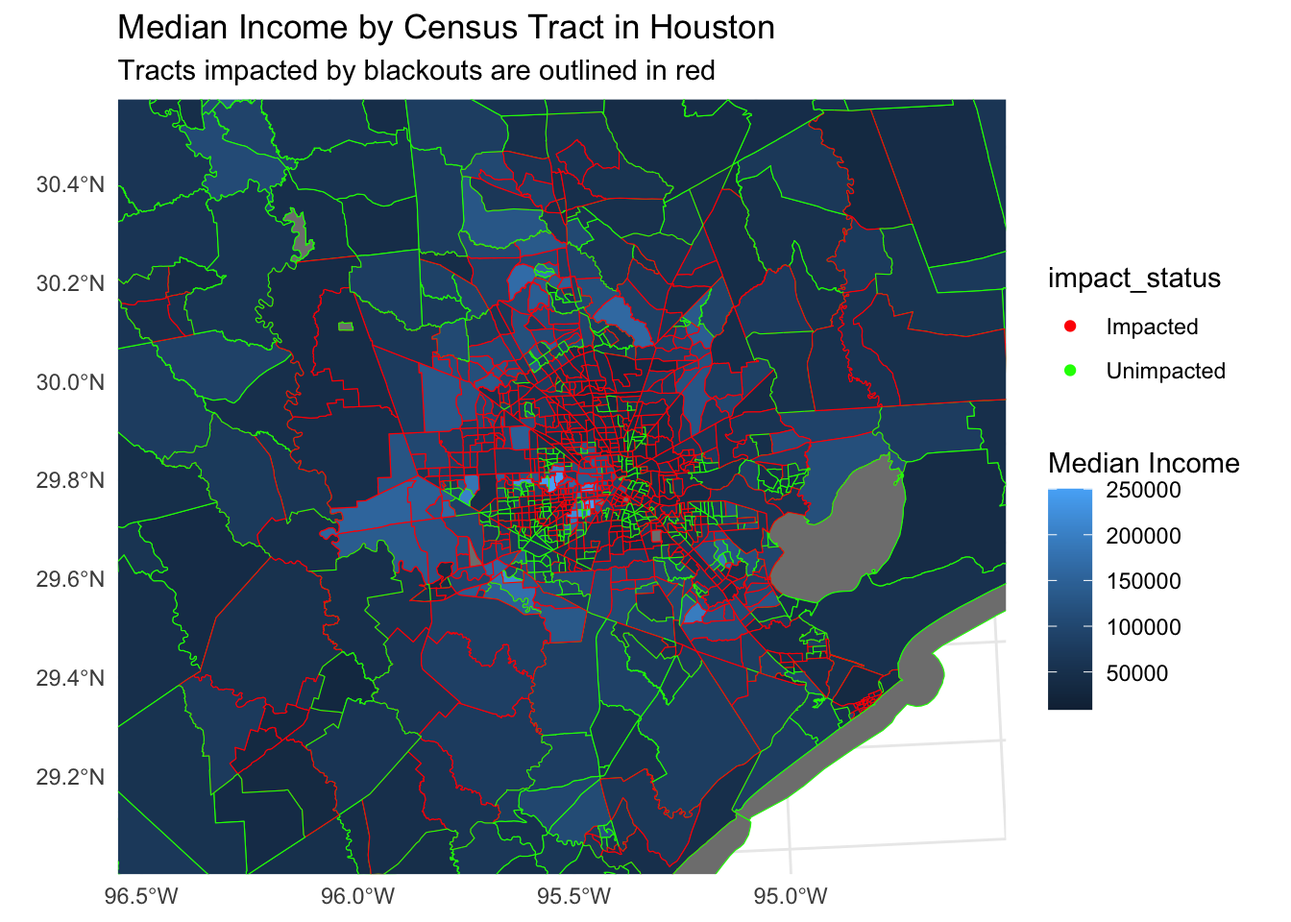
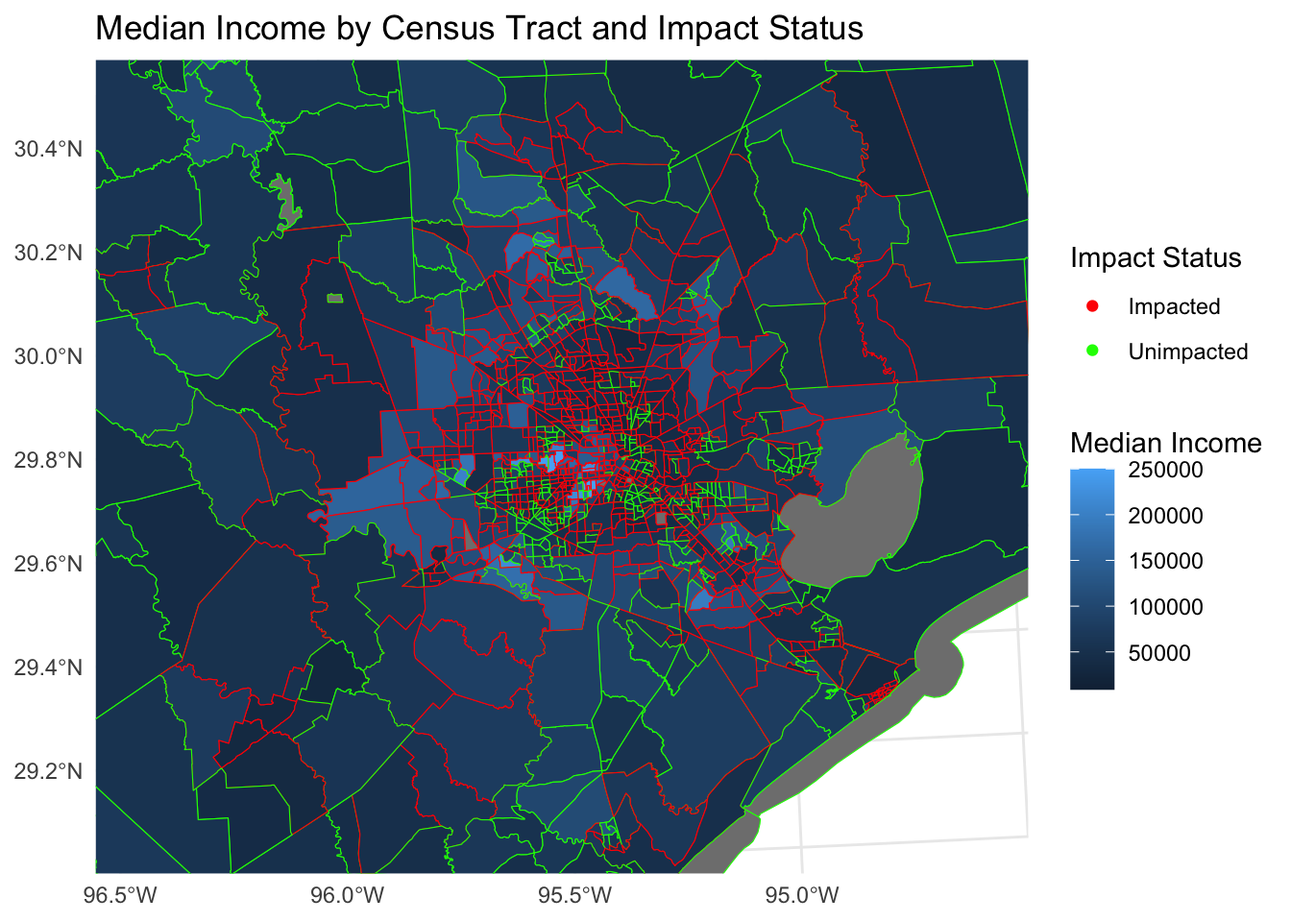
Built site for gh-pages

Changed region(s): [[0.0, 0.0, 0.9688, 1.0], [0.125, 0.6562, 0.1875, 0.7812]]

diff --git a/blog/2023-12-2-geo-proj/index.html b/blog/2023-12-2-geo-proj/index.html
@@ -7,7 +7,6 @@
 <meta name="viewport" content="width=device-width, initial-scale=1.0, user-scalable=yes">
 
 <meta name="dcterms.date" content="2023-12-15">
-<meta name="description" content="EDS223 Final Project">
 
 <title>A Geospatial Analysis of Houston’s Blackout Sensitivity</title>
 <style>
@@ -163,12 +162,7 @@ div.csl-indent {
   <div class="quarto-title-banner page-columns page-full">
     <div class="quarto-title column-page-left">
       <h1 class="title">A Geospatial Analysis of Houston’s Blackout Sensitivity</h1>
-                  <div>
-        <div class="description">
-          EDS223 Final Project
-        </div>
-      </div>
-                          <div class="quarto-categories">
+                                <div class="quarto-categories">
                 <div class="quarto-category">R</div>
                 <div class="quarto-category">MEDS</div>
                 <div class="quarto-category">Maps</div>
@@ -223,11 +217,12 @@ div.csl-indent {
 </section>
 <section id="background" class="level2">
 <h2 class="anchored" data-anchor-id="background">Background</h2>
-<p>Urban blackouts are more than mere inconveniences; they’re a stark reminder of our dependence on stable power sources. In Houston, a city with a complex infrastructure and a propensity for extreme weather events, the susceptibility to blackouts raises critical concerns about preparedness and resilience. A study by the U.S. Energy Information Administration highlights Houston’s energy landscape, noting its significant role in national energy supply but also its vulnerability to disruptions. This backdrop sets the stage for our analysis of the 2021 blackout, a pivotal moment that not only challenged the city’s infrastructure but also tested the resilience of its communities.</p>
+<p>The February 2021 blackout in Houston transcends being a singular, isolated power outage, instead unfolding as a critical incident that checked the robustness of urban infrastructures against extreme weather conditions. This event provides a unique opportunity to analyze the resilience of a major metropolitan area’s energy grid and its capacity to withstand unforeseen natural disasters. This particular incident in Houston, a city known for its dynamic growth and complex urban layout, becomes a focal point for examining urban resilience in the face of environmental challenges. The blackout serves as a view into understanding the repercussions of such events on a city’s operational continuity and the well-being of its residents. Houston is a good example for examining the intersection of urban infrastructure with environmental circumstances, offering insights into the areas where improvements are needed to enhance city-wide resilience. The significance of this analysis lies in its potential to influence future urban planning and emergency response strategies. By investigating the impacts of the Houston blackout, valuable lessons can be learned about the importance of designing cities that are not only efficient under normal conditions but also resilient and adaptable in the face of climate challenges. This blackout demonstrates the necessity of anticipating and preparing for extreme scenarios, ensuring that cities are not just places of progress and development, but also places of safety and stability for all civilians.</p>
 </section>
 <section id="data-and-methodology" class="level2">
 <h2 class="anchored" data-anchor-id="data-and-methodology">Data and Methodology</h2>
-<p>The analysis hinges on three key data sources: night light data <span class="citation" data-cites="nasa">(<a href="#ref-nasa" role="doc-biblioref">NASA 2023</a>)</span>, OpenStreetMap data detailing roads and buildings <span class="citation" data-cites="osm">(<a href="#ref-osm" role="doc-biblioref">OpenStreetMaps 2023</a>)</span>, and American Community Survey (ACS) socio-economic data. We employed R, utilizing libraries such as <code>stars</code>, <code>sf</code>, and <code>terra</code>, to manipulate and analyze these datasets. Our methodology involved a step-by-step approach, beginning with the aggregation of night light intensity data to assess blackout areas. We then integrated this with road and building data to estimate the number of homes affected and concluded with an examination of socio-economic factors, offering insights into the recovery dynamics of different communities.</p>
+<p>The analysis hinges on three key data sources: night light data <span class="citation" data-cites="nasa">(<a href="#ref-nasa" role="doc-biblioref">NASA 2023</a>)</span>, OpenStreetMap data detailing roads and buildings <span class="citation" data-cites="osm">(<a href="#ref-osm" role="doc-biblioref">OpenStreetMaps 2023</a>)</span>, and American Community Survey (ACS) socio-economic data. OpenStreetMap and the Landsat data from NASA are regularly-updated databases that are available to the public. I employed R, utilizing libraries such as <code>stars</code>, <code>sf</code>, and <code>terra</code>, to manipulate and analyze these datasets. The methodology involved a step-by-step approach, beginning with the aggregation of night light intensity data to assess blackout areas. I then integrated this with road and building data to estimate the number of homes affected and concluded with an examination of socio-economic factors, offering insights into the recovery dynamics of different communities.</p>
+<p><strong>Research Question</strong>: How did economic status influence the susceptibility and resilience of communities in Houston in the 2021 winter blackouts?</p>
 <p>Let’s get to coding.</p>
 <p>Starting off by loading in the necessary libraries.</p>
 <div class="cell">
@@ -246,7 +241,7 @@ div.csl-indent {
 <span id="cb1-13"><a href="#cb1-13" aria-hidden="true" tabindex="-1"></a><span class="co"># clear environment for sanity</span></span>
 <span id="cb1-14"><a href="#cb1-14" aria-hidden="true" tabindex="-1"></a><span class="fu">rm</span>(<span class="at">list =</span> <span class="fu">ls</span>())</span></code><button title="Copy to Clipboard" class="code-copy-button"><i class="bi"></i></button></pre></div>
 </div>
-<p>Next, importing data. The first set of data is the night light data, tiles or images that capture the light intensity emanating from the surface of the planet during nighttime. The data is stored as rasters, and the <code>stars</code> package is used for raster handling.</p>
+<p>Next, importing data. The first set of data is the night light data, made up of tiles, or images, that capture the light intensity emanating from the surface of the planet during nighttime. The data is stored as rasters, and the <code>stars</code> package is used for raster handling.</p>
 <div class="cell">
 <div class="sourceCode cell-code" id="cb2"><pre class="sourceCode r code-with-copy"><code class="sourceCode r"><span id="cb2-1"><a href="#cb2-1" aria-hidden="true" tabindex="-1"></a><span class="co"># read in night lights tiles</span></span>
 <span id="cb2-2"><a href="#cb2-2" aria-hidden="true" tabindex="-1"></a>feb7_h08v05 <span class="ot">&lt;-</span> <span class="fu">read_stars</span>(here<span class="sc">::</span><span class="fu">here</span>(<span class="st">"blog"</span>, <span class="st">"2023-12-2-geo-proj"</span>, <span class="st">"data"</span>, <span class="st">"VNP46A1"</span>, <span class="st">"VNP46A1.A2021038.h08v05.001.2021039064328.tif"</span>))</span>
@@ -254,14 +249,14 @@ div.csl-indent {
 <span id="cb2-4"><a href="#cb2-4" aria-hidden="true" tabindex="-1"></a>feb16_h0805 <span class="ot">&lt;-</span> <span class="fu">read_stars</span>(here<span class="sc">::</span><span class="fu">here</span>(<span class="st">"blog"</span>, <span class="st">"2023-12-2-geo-proj"</span>, <span class="st">"data"</span>, <span class="st">"VNP46A1"</span>, <span class="st">"VNP46A1.A2021047.h08v05.001.2021048091106.tif"</span>))</span>
 <span id="cb2-5"><a href="#cb2-5" aria-hidden="true" tabindex="-1"></a>feb16_h0806 <span class="ot">&lt;-</span> <span class="fu">read_stars</span>(here<span class="sc">::</span><span class="fu">here</span>(<span class="st">"blog"</span>, <span class="st">"2023-12-2-geo-proj"</span>, <span class="st">"data"</span>, <span class="st">"VNP46A1"</span>, <span class="st">"VNP46A1.A2021047.h08v06.001.2021048091105.tif"</span>))</span></code><button title="Copy to Clipboard" class="code-copy-button"><i class="bi"></i></button></pre></div>
 </div>
-<p>Next, we want to combine the tiles that have the same date and create two objects. Let’s do this and plot the tiles for each date for inspection purposes. We can utilize the <code>st_mosaic()</code> function to combine the tiles.</p>
+<p>Next, we want to combine the tiles that have the same date and create two objects. We can utilize the <code>st_mosaic()</code> function to combine the tiles.</p>
 <div class="cell">
 <div class="sourceCode cell-code" id="cb3"><pre class="sourceCode r code-with-copy"><code class="sourceCode r"><span id="cb3-1"><a href="#cb3-1" aria-hidden="true" tabindex="-1"></a><span class="co"># combine tiles for each date to create 2 objects</span></span>
 <span id="cb3-2"><a href="#cb3-2" aria-hidden="true" tabindex="-1"></a>feb7 <span class="ot">&lt;-</span> <span class="fu">st_mosaic</span>(feb7_h08v05, feb7_h0806)</span>
 <span id="cb3-3"><a href="#cb3-3" aria-hidden="true" tabindex="-1"></a>feb16 <span class="ot">&lt;-</span> <span class="fu">st_mosaic</span>(feb16_h0805, feb16_h0806)</span></code><button title="Copy to Clipboard" class="code-copy-button"><i class="bi"></i></button></pre></div>
 </div>
-<p>Great. The next step involves creating a blackout mask to identify areas in Houston that lost power during the winter storms. This is done by calculating the change in light intensity, reclassifying this difference raster, then converting the raster to a stars object. ADD MORE.</p>
-<p>Next, we want to convert the blackout stars to a vector format and fix any invalid geometries using <code>st_make_valid()</code>. Let’s visualize the blackout in vector format to check where we are at.</p>
+<p>Great. The next step involves creating a blackout mask to identify areas in Houston that lost power during the winter storms. This is done by calculating the change in light intensity, reclassifying this light internsity difference raster, and then converting the raster to a stars object.</p>
+<p>Now, we want to convert the blackout stars to a vector format and fix any invalid geometries using <code>st_make_valid()</code>. Let’s visualize the blackout in vector format to check where we are at.</p>
 <div class="cell">
 <div class="sourceCode cell-code" id="cb4"><pre class="sourceCode r code-with-copy"><code class="sourceCode r"><span id="cb4-1"><a href="#cb4-1" aria-hidden="true" tabindex="-1"></a><span class="co"># calculate the change in lights intensity from Feb 7 to Feb 16</span></span>
 <span id="cb4-2"><a href="#cb4-2" aria-hidden="true" tabindex="-1"></a>diff <span class="ot">&lt;-</span> feb7 <span class="sc">-</span> feb16</span>
@@ -279,15 +274,8 @@ div.csl-indent {
 <span id="cb4-14"><a href="#cb4-14" aria-hidden="true" tabindex="-1"></a><span class="co"># convert blackout to vector format and fix invalid geometries, set CRS</span></span>
 <span id="cb4-15"><a href="#cb4-15" aria-hidden="true" tabindex="-1"></a>blackout_sf_valid_trans <span class="ot">&lt;-</span> <span class="fu">st_as_sf</span>(blackout_stars, <span class="at">as_points =</span> <span class="cn">FALSE</span>) <span class="sc">%&gt;%</span> </span>
 <span id="cb4-16"><a href="#cb4-16" aria-hidden="true" tabindex="-1"></a>  <span class="fu">st_make_valid</span>() <span class="sc">%&gt;%</span> </span>
-<span id="cb4-17"><a href="#cb4-17" aria-hidden="true" tabindex="-1"></a>  <span class="fu">st_transform</span>(<span class="at">crs =</span> <span class="dv">3083</span>)</span>
-<span id="cb4-18"><a href="#cb4-18" aria-hidden="true" tabindex="-1"></a></span>
-<span id="cb4-19"><a href="#cb4-19" aria-hidden="true" tabindex="-1"></a><span class="co"># plot the blackout now that it is in vector format for inspection</span></span>
-<span id="cb4-20"><a href="#cb4-20" aria-hidden="true" tabindex="-1"></a><span class="fu">plot</span>(<span class="fu">st_geometry</span>(blackout_sf_valid_trans))</span></code><button title="Copy to Clipboard" class="code-copy-button"><i class="bi"></i></button></pre></div>
-<div class="cell-output-display">
-<p><img src="index_files/figure-html/unnamed-chunk-4-1.png" class="img-fluid" width="672"></p>
+<span id="cb4-17"><a href="#cb4-17" aria-hidden="true" tabindex="-1"></a>  <span class="fu">st_transform</span>(<span class="at">crs =</span> <span class="dv">3083</span>)</span></code><button title="Copy to Clipboard" class="code-copy-button"><i class="bi"></i></button></pre></div>
 </div>
-</div>
-<p>This visual shows the light intensity of the greater Houston region.</p>
 <p>The next piece of analysis involves defining the Houston metropolitan area and cropping the blackout mask to this area of interest. It is imperative that the coordinate reference systems align of these two spatial objects!</p>
 <div class="cell">
 <div class="sourceCode cell-code" id="cb5"><pre class="sourceCode r code-with-copy"><code class="sourceCode r"><span id="cb5-1"><a href="#cb5-1" aria-hidden="true" tabindex="-1"></a><span class="co"># define Houston metropolitan coordinates</span></span>
@@ -308,12 +296,14 @@ div.csl-indent {
 <span id="cb5-16"><a href="#cb5-16" aria-hidden="true" tabindex="-1"></a><span class="co"># assign EPSG:3083 CRS to assure consistent CRS</span></span>
 <span id="cb5-17"><a href="#cb5-17" aria-hidden="true" tabindex="-1"></a>cropped_blackout_proj <span class="ot">&lt;-</span> <span class="fu">st_transform</span>(cropped_blackout_proj, <span class="at">crs =</span> <span class="st">"EPSG:3083"</span>)</span>
 <span id="cb5-18"><a href="#cb5-18" aria-hidden="true" tabindex="-1"></a></span>
-<span id="cb5-19"><a href="#cb5-19" aria-hidden="true" tabindex="-1"></a><span class="fu">plot</span>(cropped_blackout_proj, <span class="at">colorbar =</span> <span class="cn">FALSE</span>)</span></code><button title="Copy to Clipboard" class="code-copy-button"><i class="bi"></i></button></pre></div>
+<span id="cb5-19"><a href="#cb5-19" aria-hidden="true" tabindex="-1"></a><span class="fu">plot</span>(cropped_blackout_proj, </span>
+<span id="cb5-20"><a href="#cb5-20" aria-hidden="true" tabindex="-1"></a>     <span class="at">colorbar =</span> <span class="cn">FALSE</span>,</span>
+<span id="cb5-21"><a href="#cb5-21" aria-hidden="true" tabindex="-1"></a>     <span class="at">main =</span> <span class="st">"Locations of Significant Light Intensity Change in Houston"</span>)</span></code><button title="Copy to Clipboard" class="code-copy-button"><i class="bi"></i></button></pre></div>
 <div class="cell-output-display">
 <p><img src="index_files/figure-html/unnamed-chunk-5-1.png" class="img-fluid" width="672"></p>
 </div>
 </div>
-<p>This is a visual of the Houston metropolitan area light intensity. ADD MORE!!!!!</p>
+<p>This is a visual of the Houston metropolitan area light intensity from before and after the storm. The census tracts that lie in the places where the black dots show up are areas that have been impacted by the blackout.</p>
 <p>Next, we will refine the blackout analysis by excluding areas near highways. This helps in ensuring that the blackout mask we created earlier accurately reflects residential or non-highway areas that lost power, rather than areas simply experiencing less traffic during the storms.</p>
 <div class="cell">
 <div class="sourceCode cell-code" id="cb6"><pre class="sourceCode r code-with-copy"><code class="sourceCode r"><span id="cb6-1"><a href="#cb6-1" aria-hidden="true" tabindex="-1"></a><span class="co"># define SQL query</span></span>
@@ -362,6 +352,7 @@ div.csl-indent {
 <pre><code>[1] "Number of impacted homes: 157411"</code></pre>
 </div>
 </div>
+<p>As the results show, a grand total of 157,411 residential buildings were impacted by the blackouts. This total quantifies the extreme impact of the storms and highlights how many individuals and families faced the consequences of prolonged blackouts.</p>
 </section>
 <section id="investigating-socioeconomic-factors" class="level3">
 <h3 class="anchored" data-anchor-id="investigating-socioeconomic-factors">Investigating Socioeconomic Factors</h3>
@@ -406,7 +397,7 @@ div.csl-indent {
 </section>
 <section id="results-and-visualizations" class="level2">
 <h2 class="anchored" data-anchor-id="results-and-visualizations">Results and Visualizations</h2>
-<p>At this stage of the analysis, it is time to get down to the main analysis and determine the potential difference in income between impacted versus unimpacted tracts. To conduct this analysis, we will create a a map of median income by census tract and a box-plot of the income in impacted versus unimpacted tracts.</p>
+<p>At this stage, it is time to get down to the main analysis and determine the potential difference in income between impacted versus unimpacted tracts. To conduct this analysis, we will create a a map of median income by census tract and a box-plot of the income in impacted versus unimpacted tracts.</p>
 <div class="cell">
 <div class="sourceCode cell-code" id="cb10"><pre class="sourceCode r code-with-copy"><code class="sourceCode r"><span id="cb10-1"><a href="#cb10-1" aria-hidden="true" tabindex="-1"></a><span class="co"># add impact status column </span></span>
 <span id="cb10-2"><a href="#cb10-2" aria-hidden="true" tabindex="-1"></a>acs_data<span class="sc">$</span>impact_status <span class="ot">&lt;-</span> <span class="fu">ifelse</span>(acs_data<span class="sc">$</span>GEOID <span class="sc">%in%</span> tracts_with_blackouts, <span class="st">"Impacted"</span>, <span class="st">"Unimpacted"</span>)</span>
@@ -418,9 +409,9 @@ div.csl-indent {
 <span id="cb10-8"><a href="#cb10-8" aria-hidden="true" tabindex="-1"></a>map <span class="ot">&lt;-</span> <span class="fu">ggplot</span>(<span class="at">data =</span> acs_data) <span class="sc">+</span></span>
 <span id="cb10-9"><a href="#cb10-9" aria-hidden="true" tabindex="-1"></a>  <span class="fu">geom_sf</span>(<span class="fu">aes</span>(<span class="at">fill =</span> B19013e1, <span class="at">color =</span> impact_status), <span class="at">show.legend =</span> <span class="st">'point'</span>) <span class="sc">+</span></span>
 <span id="cb10-10"><a href="#cb10-10" aria-hidden="true" tabindex="-1"></a>  <span class="fu">scale_color_manual</span>(<span class="at">values =</span> <span class="fu">c</span>(<span class="st">"Impacted"</span> <span class="ot">=</span> <span class="st">"red"</span>, <span class="st">"Unimpacted"</span> <span class="ot">=</span> <span class="st">"green"</span>)) <span class="sc">+</span> </span>
-<span id="cb10-11"><a href="#cb10-11" aria-hidden="true" tabindex="-1"></a>  <span class="fu">labs</span>(<span class="at">title =</span> <span class="st">"Median Income by Census Tract in Houston"</span>,</span>
-<span id="cb10-12"><a href="#cb10-12" aria-hidden="true" tabindex="-1"></a>       <span class="at">subtitle =</span> <span class="st">"Tracts impacted by blackouts are outlined in red"</span>,</span>
-<span id="cb10-13"><a href="#cb10-13" aria-hidden="true" tabindex="-1"></a>       <span class="at">fill =</span> <span class="st">"Median Income"</span>) <span class="sc">+</span></span>
+<span id="cb10-11"><a href="#cb10-11" aria-hidden="true" tabindex="-1"></a>  <span class="fu">labs</span>(<span class="at">title =</span> <span class="st">"Median Income by Census Tract and Impact Status"</span>,</span>
+<span id="cb10-12"><a href="#cb10-12" aria-hidden="true" tabindex="-1"></a>       <span class="at">fill =</span> <span class="st">"Median Income"</span>,</span>
+<span id="cb10-13"><a href="#cb10-13" aria-hidden="true" tabindex="-1"></a>       <span class="at">color =</span> <span class="st">"Impact Status"</span>) <span class="sc">+</span></span>
 <span id="cb10-14"><a href="#cb10-14" aria-hidden="true" tabindex="-1"></a>  <span class="fu">coord_sf</span>(<span class="at">xlim =</span> <span class="fu">c</span>(houston_extent<span class="sc">$</span>xmin, houston_extent<span class="sc">$</span>xmax), </span>
 <span id="cb10-15"><a href="#cb10-15" aria-hidden="true" tabindex="-1"></a>           <span class="at">ylim =</span> <span class="fu">c</span>(houston_extent<span class="sc">$</span>ymin, houston_extent<span class="sc">$</span>ymax), </span>
 <span id="cb10-16"><a href="#cb10-16" aria-hidden="true" tabindex="-1"></a>           <span class="at">expand =</span> <span class="cn">FALSE</span>) <span class="sc">+</span></span>
@@ -433,9 +424,10 @@ div.csl-indent {
 <span id="cb10-23"><a href="#cb10-23" aria-hidden="true" tabindex="-1"></a>boxplot <span class="ot">&lt;-</span> <span class="fu">ggplot</span>(acs_data, <span class="fu">aes</span>(<span class="at">x =</span> impact_status, <span class="at">y =</span> B19013e1, <span class="at">fill =</span> impact_status)) <span class="sc">+</span></span>
 <span id="cb10-24"><a href="#cb10-24" aria-hidden="true" tabindex="-1"></a>  <span class="fu">geom_boxplot</span>() <span class="sc">+</span></span>
 <span id="cb10-25"><a href="#cb10-25" aria-hidden="true" tabindex="-1"></a>  <span class="fu">scale_fill_manual</span>(<span class="at">values =</span> <span class="fu">c</span>(<span class="st">"Impacted"</span> <span class="ot">=</span> <span class="st">"red"</span>, <span class="st">"Unimpacted"</span> <span class="ot">=</span> <span class="st">"blue"</span>)) <span class="sc">+</span></span>
-<span id="cb10-26"><a href="#cb10-26" aria-hidden="true" tabindex="-1"></a>  <span class="fu">labs</span>(<span class="at">title =</span> <span class="st">"Quartile Plot of Median Income in Houston's Census Tracts"</span>,</span>
+<span id="cb10-26"><a href="#cb10-26" aria-hidden="true" tabindex="-1"></a>  <span class="fu">labs</span>(<span class="at">title =</span> <span class="st">"Median Income of Impacted vs Unimpacted Tracts"</span>,</span>
 <span id="cb10-27"><a href="#cb10-27" aria-hidden="true" tabindex="-1"></a>       <span class="at">x =</span> <span class="st">"Blackout Impact"</span>, <span class="at">y =</span> <span class="st">"Median Income"</span>) <span class="sc">+</span></span>
-<span id="cb10-28"><a href="#cb10-28" aria-hidden="true" tabindex="-1"></a>  <span class="fu">theme_minimal</span>()</span></code><button title="Copy to Clipboard" class="code-copy-button"><i class="bi"></i></button></pre></div>
+<span id="cb10-28"><a href="#cb10-28" aria-hidden="true" tabindex="-1"></a>  <span class="fu">theme_minimal</span>() <span class="sc">+</span></span>
+<span id="cb10-29"><a href="#cb10-29" aria-hidden="true" tabindex="-1"></a>  <span class="fu">theme</span>(<span class="at">legend.position =</span> <span class="st">"none"</span>)</span></code><button title="Copy to Clipboard" class="code-copy-button"><i class="bi"></i></button></pre></div>
 </div>
 <div class="cell">
 <div class="sourceCode cell-code" id="cb11"><pre class="sourceCode r code-with-copy"><code class="sourceCode r"><span id="cb11-1"><a href="#cb11-1" aria-hidden="true" tabindex="-1"></a>map</span></code><button title="Copy to Clipboard" class="code-copy-button"><i class="bi"></i></button></pre></div>
@@ -453,14 +445,18 @@ div.csl-indent {
 <section id="conclusion" class="level2">
 <h2 class="anchored" data-anchor-id="conclusion">Conclusion</h2>
 <p>The results show that the median income of a census tract did not influence how likely they were to have experienced a blackout. This can be seen in the map, but the box plot reveals it in a clearer picture. While it may seem that poorer tracts would be less likely to be influenced by the blackout and that it would take longer for their power to be fully rejuvenated, it is important to consider that there are many factors to consider in this situation. For example, it is possible that the distribution of power infrastructure and its resilience to extreme weather events played a more significant role in the occurrence of blackouts than socioeconomic factors. Areas with older or less maintained power grids, regardless of the median income of the residents, might have been more susceptible to failures. Additionally, the physical geography of the region, such as elevation or proximity to water bodies, could have influenced the impact of the winter storms on power availability. It’s also worth considering the location of essential services and emergency response priorities, which might lead to quicker restoration in certain areas irrespective of their economic status. These complexities highlight the importance of a multifaceted approach in understanding and addressing the challenges posed by such natural disasters.</p>
+<p>However, when considering areas that extended outside of the Houston and looking at all areas of Texas impacted by the blackouts, a Rockefeller foundation study revealed that areas with a high share of minority population were more than four times as likely to suffer a blackout than predominantly white areas. <span class="citation" data-cites="rockefeller">(<a href="#ref-rockefeller" role="doc-biblioref">Hsu 2021</a>)</span> The findings of the Rockefeller Foundation’s study are a call for action. They underscore the urgency for more equitable infrastructure planning and disaster response strategies that recognize and these historical imbalances. As we move forward, it is imperative that resilience and emergency preparedness are seen through the lens of equity, ensuring that all communities, no matter their racial or ethnic makeup, are fortified with the means to withstand the challenges of such catastrophic events.</p>
 
 
 
 </section>
 
 <div id="quarto-appendix" class="default"><section class="quarto-appendix-contents" role="doc-bibliography"><h2 class="anchored quarto-appendix-heading">References</h2><div id="refs" class="references csl-bib-body hanging-indent" role="list">
+<div id="ref-rockefeller" class="csl-entry" role="listitem">
+Hsu, Feng Chi et al. 2021. <span>“Frozen Out in Texas: Blackouts and Inequity.”</span> <a href="https://www.rockefellerfoundation.org/case-study/frozen-out-in-texas-blackouts-and-inequity/">https://www.rockefellerfoundation.org/case-study/frozen-out-in-texas-blackouts-and-inequity/</a>.
+</div>
 <div id="ref-nasa" class="csl-entry" role="listitem">
-NASA. 2023. <span>“Level-1 and Atmosphere Archive &amp; Distribution System Distributed Active Archive Center - LAADS DAAC.”</span>
+NASA. 2023. <span>“Level-1 and Atmosphere Archive &amp; Distribution System Distributed Active Archive Center - LAADS DAAC.”</span> <a href="https://ladsweb.modaps.eosdis.nasa.gov/">https://ladsweb.modaps.eosdis.nasa.gov/</a>.
 </div>
 <div id="ref-osm" class="csl-entry" role="listitem">
 OpenStreetMaps. 2023. <a href="https://planet.openstreetmap.org/">https://planet.openstreetmap.org/</a>.

diff --git a/blog.html b/blog.html
@@ -169,9 +169,9 @@ ul.task-list li input[type="checkbox"] {
 
 <div class="quarto-listing quarto-listing-container-default" id="listing-listing">
 <div class="list quarto-listing-default">
-<div class="quarto-post image-right" data-index="0" data-categories="R,MEDS,Maps" data-listing-date-sort="1702627200000" data-listing-file-modified-sort="1702187616493" data-listing-date-modified-sort="NaN" data-listing-reading-time-sort="9">
+<div class="quarto-post image-right" data-index="0" data-categories="R,MEDS,Maps" data-listing-date-sort="1702627200000" data-listing-file-modified-sort="1702193724191" data-listing-date-modified-sort="NaN" data-listing-reading-time-sort="10">
 <div class="thumbnail">
-<p><a href="./blog/2023-12-2-geo-proj/index.html"> <p class="card-img-top"><img src="blog/2023-12-2-geo-proj/index_files/figure-html/unnamed-chunk-4-1.png"  class="thumbnail-image card-img"/></p> </a></p>
+<p><a href="./blog/2023-12-2-geo-proj/index.html"> <p class="card-img-top"><img src="blog/2023-12-2-geo-proj/index_files/figure-html/unnamed-chunk-5-1.png"  class="thumbnail-image card-img"/></p> </a></p>
 </div>
 <div class="body">
 <a href="./blog/2023-12-2-geo-proj/index.html">
@@ -182,7 +182,7 @@ A Geospatial Analysis of Houston’s Blackout Sensitivity
 
 </div>
 <div class="listing-description">
-<p>EDS223 Final Project</p>
+In the heart of winter, the city of Houston found itself plunged into darkness. The February 2021 blackout, a consequence of severe winter storms, left a metropolis in a…
 </div>
 </a>
 </div>
